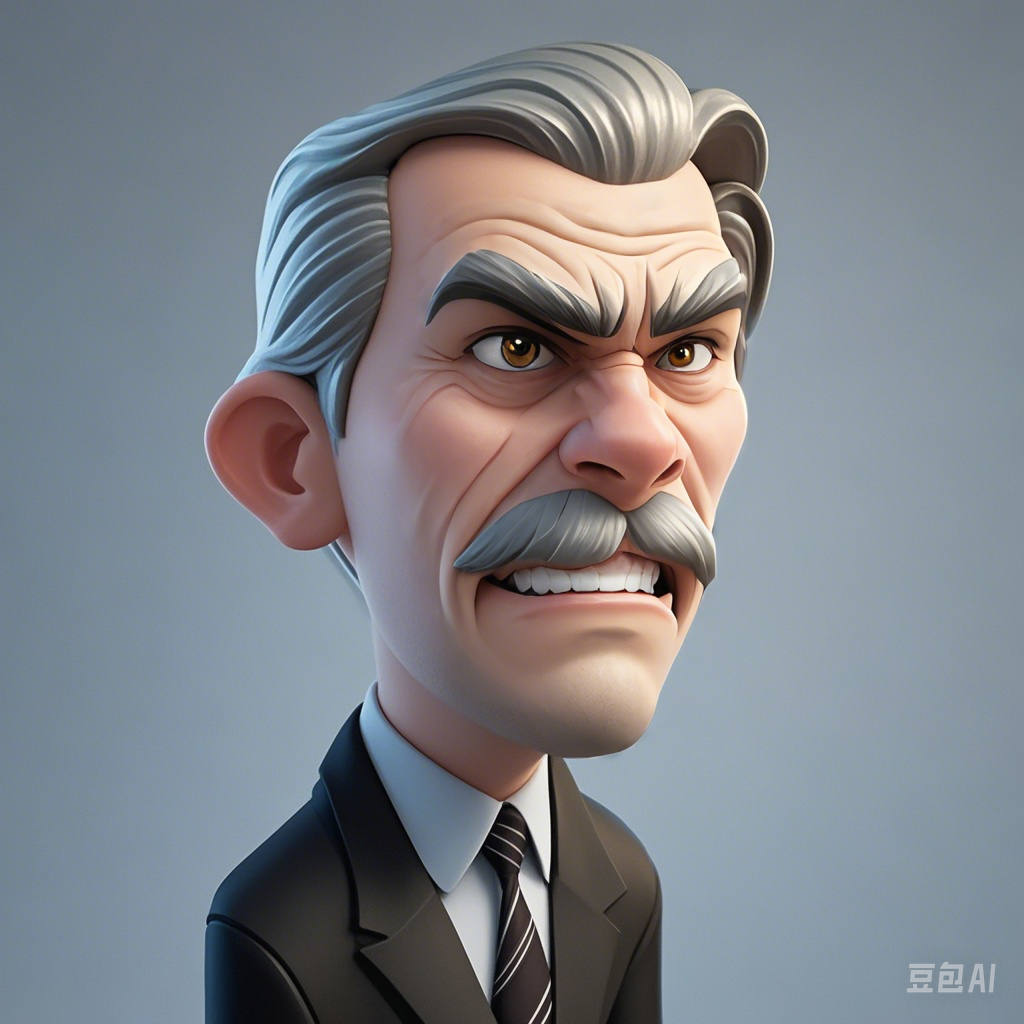
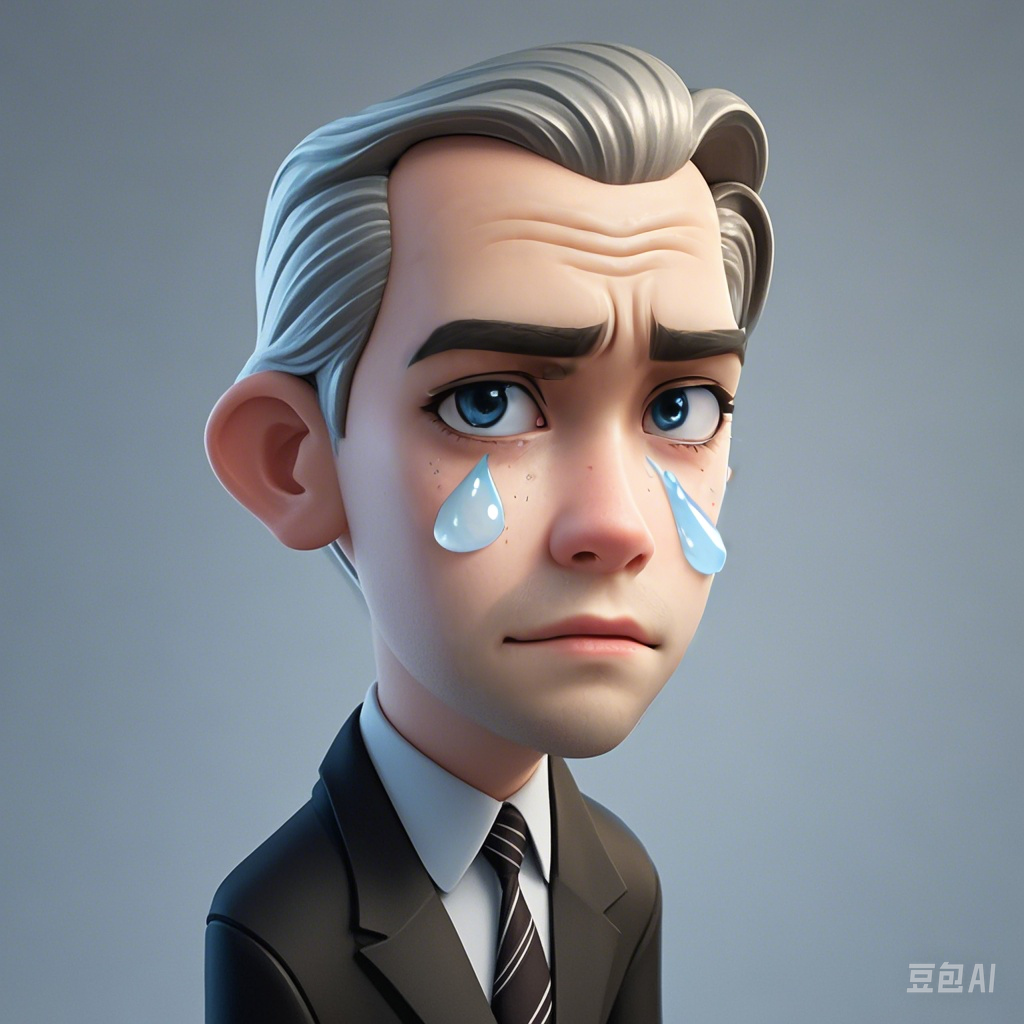
title

Changed region(s): [[0.375, 0.1875, 0.75, 0.75]]

diff --git a/script.js b/script.js
@@ -17,6 +17,18 @@ document.addEventListener('DOMContentLoaded', function () {
   const userId = generateUserId();
   console.log('userId', userId);
 
+  avatar = 'img/boss_0.png'
+  saldAvatar = 'img/boss_1.png'
+
+  function switchThenBackAvatar(newAvatar) {
+    const avatarElement = document.getElementById('avatar');
+    originalAvatar = avatarElement.src;
+    avatarElement.src = newAvatar;
+    setTimeout(function () {
+      avatarElement.src = originalAvatar;
+    }, 2000);
+  }
+
   function addMessage(messageText, isInnerThought = false) {
     const messageDiv = document.createElement('div');
     if (isInnerThought) {
@@ -104,6 +116,11 @@ document.addEventListener('DOMContentLoaded', function () {
     return word;
   }
 
+  // 初始背景
+  addMessage("公司聚餐，你刚坐下。领导就头都不带回的，用戏谑的语气说：", true);
+  addMessage("小王，你还没有资格坐在我的旁边！！", false);
+
+
   function request(userInput) {
     const data = {
       "user_id": userId,
@@ -122,11 +139,24 @@ document.addEventListener('DOMContentLoaded', function () {
       .then(response => response.json())
       .then(result => {
         console.log('请求成功，返回结果：', result);
-        // 模拟添加别人回复的消息（两种情况，普通回复和内心活动回复）
+        if (result.score <= 0) {
+          // 游戏结束
+          if (confirm("算你狠！！！")) {
+            // 刷新页面
+            location.reload();
+          }
+        }
         let currentMood = parseInt(moodValueSpan.textContent);
         score = result.score - currentMood
+        // 添加内心独白
         addMessage(getWordByScore(score), true);
+        if (score < 0) {
+          // 切换头像
+          switchThenBackAvatar(saldAvatar);
+        }
+        // 更新分数
         updateMoodValue(result.score);
+        // 添加回复
         addMessage(result.bot_return, false);
       })
       .catch(error => {
@@ -147,6 +177,12 @@ document.addEventListener('DOMContentLoaded', function () {
       }
     }, 50);
   }
+
+  messageInput.addEventListener('keydown', function (e) {
+    if (e.key === "Enter") {
+      sendButton.click();
+    }
+  });
 
   sendButton.addEventListener('click', function () {
     const messageText = messageInput.value.trim();

diff --git a/index.html b/index.html
@@ -11,7 +11,7 @@
 <body>
   <div class="chat-container">
     <div class="character-info">
-      <img src="img/boss_0.png" alt="动漫角色（鸣人示例）" class="character-img">
+      <img id="avatar" src="img/boss_0.png" alt="动漫角色（鸣人示例）" class="character-img">
       <div class="character-score">
         <p>情绪值: <span id="moodValue">100</span></p>
       </div>
